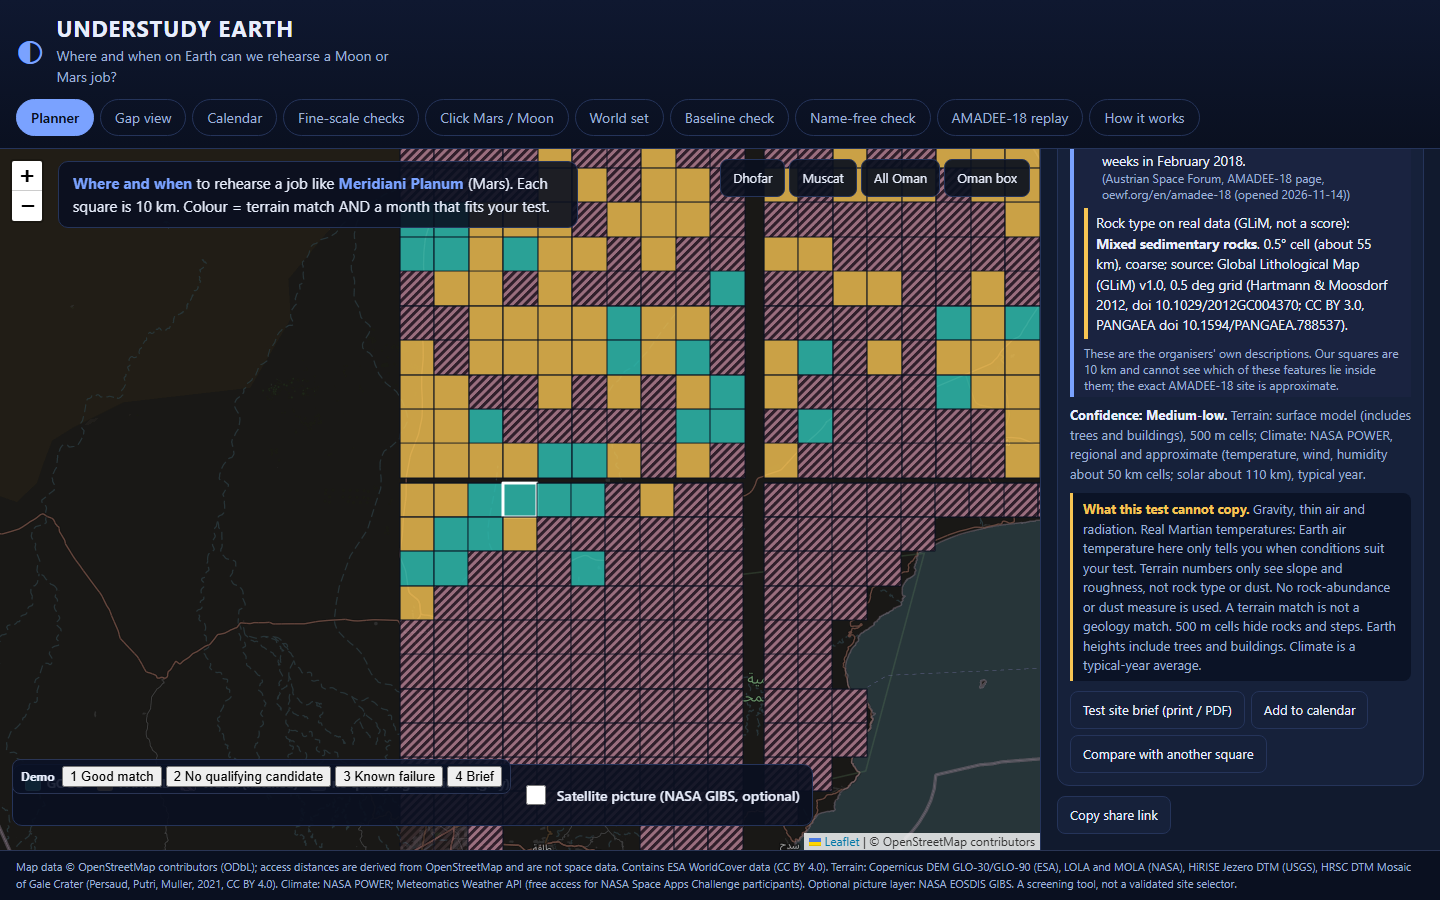
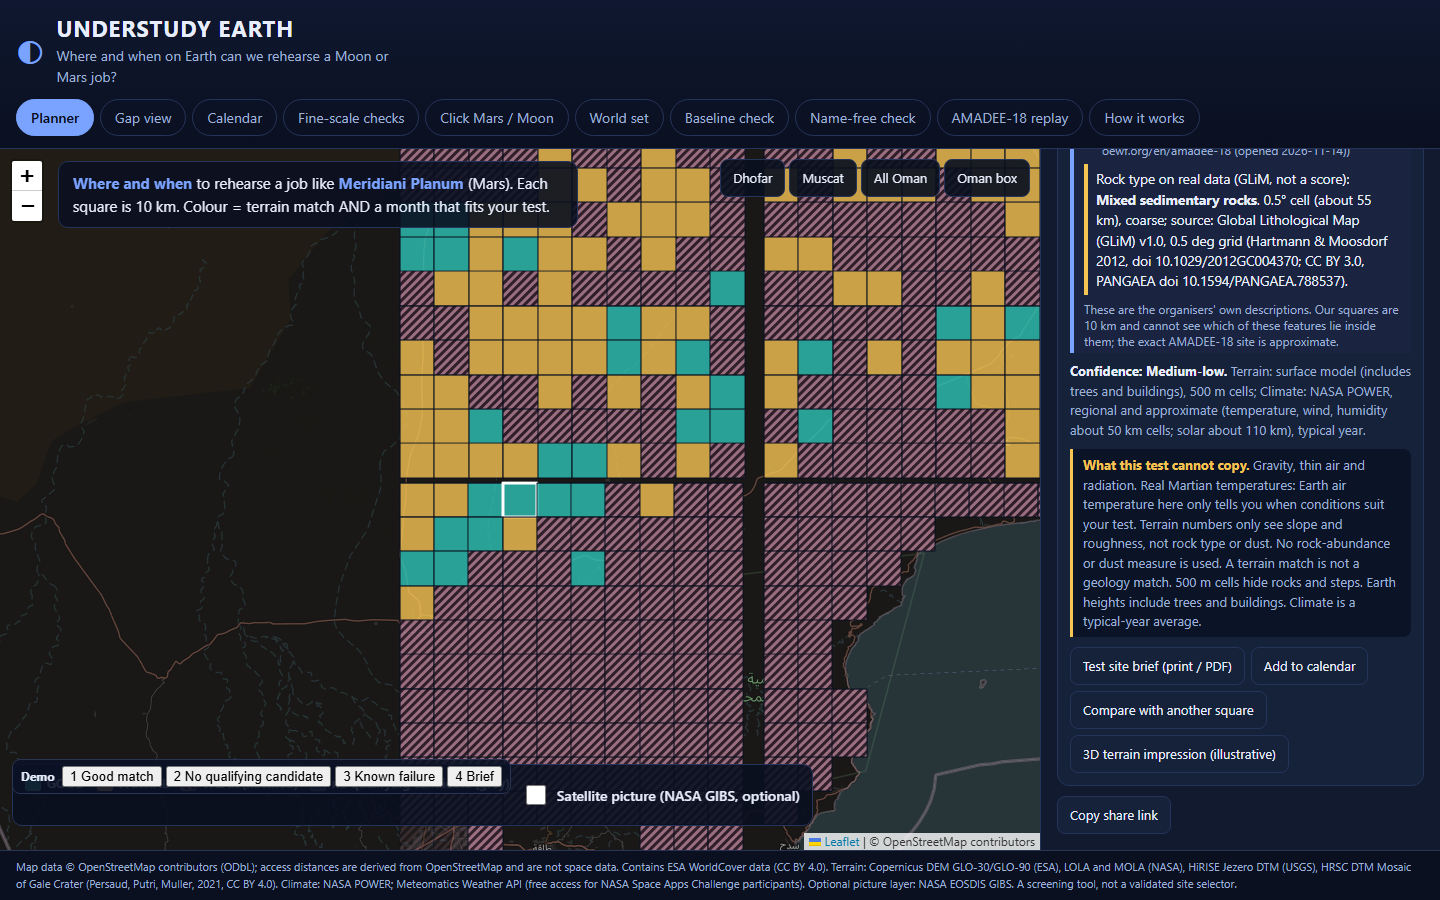
Add an illustrative 3D terrain impression to Earth, Mars and Moon results
Draws a
  synthetic rotatable surface sized to match each window's own real, measured relief, roughness and slope
  numbers, so the shape is a picture of those numbers rather than an extra data source. Clearly labelled as
  not real elevation data and never scored. Full test suite passes with zero console errors.

Changed region(s): [[0.7188, 0.1556, 0.9688, 0.7467], [0.75, 0.7778, 0.9375, 0.8711]]

diff --git a/app/app.js b/app/app.js
@@ -138,6 +138,7 @@
       var a = ev.target.getAttribute && ev.target.getAttribute('data-act');
       if (a === 'brief') openBrief(); else if (a === 'cmp') { cmpNext = true; $('result').insertAdjacentHTML('afterbegin', '<p class="hint">Now click a second square to compare.</p>'); }
       else if (a === 'addcal') { addCal(); } else if (a === 'clearcal') { st.cal = []; renderCal(); } else if (a === 'closebrief') $('brief').hidden = true; else if (a === 'print') window.print(); else if (a === 'clearb') { selB = null; renderResult(); }
+      else if (a === 't3d') openT3D(t3d.e, t3d.label); else if (a === 'rot3d') { t3d.angle += (+ev.target.getAttribute('data-dir')) * 0.35; draw3D(); } else if (a === 'closet3d') $('t3d').hidden = true;
     });
   }
 
@@ -334,6 +335,47 @@
       ['Best months for your test', e._best.length ? N.monthsText(e._best) : 'none fits']];
   }
 
+  // ---- 3D terrain impression: NOT real elevation data. A synthetic surface generated to match
+  // this window's own real, measured numbers (relief, roughness, slope), deterministic per window,
+  // so the same square always draws the same shape. Illustrative only, never scored.
+  var t3d = { e: null, label: '', angle: 0.78 };
+  function hash32(s) { var h = 0; for (var i = 0; i < s.length; i++) h = (h * 31 + s.charCodeAt(i)) | 0; return h; }
+  function mulberry32(a) { return function () { a |= 0; a = a + 0x6D2B79F5 | 0; var x = Math.imul(a ^ a >>> 15, 1 | a); x = x + Math.imul(x ^ x >>> 7, 61 | x) ^ x; return ((x ^ x >>> 14) >>> 0) / 4294967296; }; }
+  function heightfield(e) {
+    var N = 17, rnd = mulberry32(hash32(e.id || e.name || 'w')), h = new Array(N * N), oct = [[2, 1], [4, 0.5], [8, 0.25]];
+    var ph = oct.map(function () { return rnd() * 6.28; });
+    for (var y = 0; y < N; y++) for (var x = 0; x < N; x++) {
+      var v = 0; oct.forEach(function (o, k) { v += o[1] * Math.sin(x / (N - 1) * o[0] * 2.1 + ph[k]) * Math.cos(y / (N - 1) * o[0] * 1.7 + ph[k] * 1.3); });
+      h[y * N + x] = v;
+    }
+    var mn = Math.min.apply(null, h), mx = Math.max.apply(null, h), relief = e.relief_m || 50, rough = e.rough_med || 5;
+    for (var i = 0; i < h.length; i++) h[i] = (h[i] - mn) / ((mx - mn) || 1) * relief + (rnd() - 0.5) * rough * 1.5;
+    return { N: N, h: h };
+  }
+  function draw3D() {
+    var e = t3d.e; if (!e) return;
+    var hf = heightfield(e), N = hf.N, h = hf.h, cv = $('t3dcv'), c = cv.getContext('2d'), W = cv.width, H = cv.height;
+    c.clearRect(0, 0, W, H); c.fillStyle = '#05080f'; c.fillRect(0, 0, W, H);
+    var scale = Math.min(W, H) / (N * 1.5), cx = W / 2, cy = H * 0.26, maxh = Math.max.apply(null, h) || 1, a = t3d.angle;
+    var ca = Math.cos(a), sa = Math.sin(a);
+    function proj(x, y, z) {
+      var rx = x * ca - y * sa, ry = x * sa + y * ca;
+      return [cx + rx * scale * 0.86, cy + ry * scale * 0.5 - z / maxh * scale * 2.0];
+    }
+    var cells = []; for (var y = 0; y < N - 1; y++) for (var x = 0; x < N - 1; x++) cells.push([x, y]);
+    cells.sort(function (p, q) { return (p[0] + p[1]) - (q[0] + q[1]); });
+    cells.forEach(function (xy) {
+      var x = xy[0], y = xy[1], z00 = h[y * N + x], z10 = h[y * N + x + 1], z01 = h[(y + 1) * N + x], z11 = h[(y + 1) * N + x + 1];
+      var p00 = proj(x, y, z00), p10 = proj(x + 1, y, z10), p11 = proj(x + 1, y + 1, z11), p01 = proj(x, y + 1, z01);
+      var light = 0.4 + 0.6 * ((z00 + z10 + z01 + z11) / 4 / maxh + 0.5), g = Math.max(30, Math.min(230, Math.round(90 * light)));
+      c.fillStyle = 'rgb(' + g + ',' + Math.round(g * 0.92) + ',' + Math.round(g * 0.82) + ')';
+      c.beginPath(); c.moveTo(p00[0], p00[1]); c.lineTo(p10[0], p10[1]); c.lineTo(p11[0], p11[1]); c.lineTo(p01[0], p01[1]); c.closePath();
+      c.fill(); c.strokeStyle = 'rgba(0,0,0,0.25)'; c.stroke();
+    });
+    $('t3dcap').innerHTML = esc(t3d.label) + ' &middot; Not real elevation data: a synthetic surface generated to match this window\'s own measured relief (' + Math.round(e.relief_m) + ' m), roughness (' + e.rough_med.toFixed(1) + ' m) and slope, so you can picture the numbers in the table. The real terrain is not shaped like this; only the statistics match. Illustrative only, never scored.';
+  }
+  function openT3D(e, label) { t3d.e = e; t3d.label = label; t3d.angle = 0.78; $('t3d').hidden = false; draw3D(); }
+
   function chart(e) {
     var cv = $('slopechart'); if (!cv) return;
     var ctx = cv.getContext('2d'), W = cv.width, H = cv.height, t = st.target, nb = 16;
@@ -376,6 +418,7 @@
     var el = $('result');
     if (!sel) { el.innerHTML = '<p class="hint">Click a square on the map to see where it fits, when it fits, and what Earth cannot copy.</p>'; return; }
     var e = sel, k = e._tier, c = climate(e), cf = confidence(e);
+    t3d.e = e; t3d.label = 'Earth square ' + e.lat.toFixed(2) + ', ' + e.lon.toFixed(2);
     var rows = metricRows(e).map(function (r) { return '<tr><th>' + esc(r[0]) + '</th><td>' + esc(r[1]) + '</td></tr>'; }).join('');
     var h = '<div><span class="chip ' + k + '">' + LABEL[k] + '</span> <span class="chip ' + (stabOf(st.target) && stabOf(st.target).threshold_sensitive ? 'partial' : 'match') + '">' + robustText(st.target) + '</span> <span class="sub">' + esc(GROUPS[e.group]) + ' &middot; ' + e.lat.toFixed(3) + ', ' + e.lon.toFixed(3) + '</span></div>' +
       verdictHtml(e) + '<div class="best">Best months: <b>' + (e._best.length ? esc(N.monthsText(e._best)) : 'none fits your test') + '</b></div>' + stripHtml(e) + monthNotes(e) +
@@ -383,7 +426,7 @@
       '<table>' + rows + '</table><div class="chartbox"><canvas id="slopechart" width="340" height="90"></canvas><small><i class="dot b"></i>target slope spread <i class="dot g"></i>this square</small></div>' +
       twinHtml(e) + '<p class="sub"><b>Access:</b> ' + esc(accessLine(e)) + '</p>' + notesHtml(e) + (e.group === 'oman90' ? '<p class="note">90 m data: coarser than the 30 m squares, shown as an extra layer; land cover was not checked here.</p>' : '') + '<div class="conf"><b>Confidence: ' + cf.level + '.</b> ' + cf.items.map(esc).join('; ') + '.</div>' +
       '<div class="limits"><b>What this test cannot copy.</b> Gravity, thin air and radiation. Real ' + (st.target.body === 'Moon' ? 'lunar' : 'Martian') + ' temperatures: Earth air temperature here only tells you when conditions suit your test. Terrain numbers only see slope and roughness, not rock type or dust. No rock-abundance or dust measure is used. A terrain match is not a geology match. 500 m cells hide rocks and steps. Earth heights include trees and buildings. Climate is a typical-year average.</div>' +
-      '<div class="btns"><button data-act="brief">Test site brief (print / PDF)</button><button data-act="addcal">Add to calendar</button><button data-act="cmp">Compare with another square</button></div>';
+      '<div class="btns"><button data-act="brief">Test site brief (print / PDF)</button><button data-act="addcal">Add to calendar</button><button data-act="cmp">Compare with another square</button><button data-act="t3d">3D terrain impression (illustrative)</button></div>';
     if (selB) {
       var A = metricRows(sel), B = metricRows(selB);
       h += '<h3>Compare</h3><table><tr><th></th><th>A ' + sel.lat.toFixed(2) + ', ' + sel.lon.toFixed(2) + '</th><th>B ' + selB.lat.toFixed(2) + ', ' + selB.lon.toFixed(2) + '</th></tr>' + A.map(function (r, i) { return '<tr><th>' + esc(r[0]) + '</th><td>' + esc(r[1]) + '</td><td>' + esc(B[i][1]) + '</td></tr>'; }).join('') + '</table><button data-act="clearb">Clear B</button>';
@@ -484,6 +527,7 @@
     return { unknown: false, clat: clat, clon: clon, km: Math.sqrt(dx * dx + dy * dy), w: { id: 'MC', name: 'Mars window ' + clat.toFixed(1) + '°, ' + clon.toFixed(1) + '°', body: 'Mars', slope_p50: f[0], slope_p90: f[1], steep_share: f[2], rough_med: f[3], rough1k_med: f[4], relief_m: f[5], hist: histFrom(sh) } };
   }
   function skyResult(w, label, conf, extra) {
+    t3d.e = w; t3d.label = label;
     var rows = [['Median / 90th pct slope', w.slope_p50.toFixed(1) + '° / ' + w.slope_p90.toFixed(1) + '°'], ['Roughness 500 m / 1 km', w.rough_med.toFixed(1) + ' m / ' + w.rough1k_med.toFixed(1) + ' m'], ['Relief in 10 km', Math.round(w.relief_m) + ' m'], ['Cells above 10° slope', Math.round(w.steep_share * 100) + '%']];
     var ds = D.earth.map(function (e) { return { e: e, d: SC.distance(e, w) }; }).sort(function (a, b) { return a.d - b.d; });
     var om = ds.filter(function (x) { return x.e.group.indexOf('oman') === 0 && !masked(x.e); }), tier = SC.gapTier(om[0].d);
@@ -494,7 +538,8 @@
     $('skyres').innerHTML = '<h3>' + esc(label) + '</h3>' + steepWarn + (extra || '') + '<table>' + rows.map(function (r) { return '<tr><th>' + esc(r[0]) + '</th><td>' + esc(r[1]) + '</td></tr>'; }).join('') + '</table>' +
       '<p><span class="chip ' + tier + '">' + GLABEL[tier] + '</span> best square in the searched area: distance ' + om[0].d.toFixed(3) + ' (match below ' + D.meta.thr_match_dist.toFixed(2) + ', partial below ' + D.meta.thr_partial_dist.toFixed(2) + '). Best fit among the squares searched, not a global best. Not checked for stability.</p>' +
       '<h4>Closest squares in the searched area</h4>' + tb(om.slice(0, 5)) + '<h4>Closest squares anywhere in our set</h4>' + tb(ds.slice(0, 3)) + vh +
-      '<div class="conf"><b>Confidence: Low.</b> ' + esc(conf) + '</div><div class="limits"><b>What this cannot see.</b> Terrain numbers only see slope and roughness, not rock type or dust. Gravity, air and radiation are not copied. 500 m cells hide rocks and steps; Earth heights are a surface model. A terrain match is not a geology match.</div>';
+      '<div class="conf"><b>Confidence: Low.</b> ' + esc(conf) + '</div><div class="limits"><b>What this cannot see.</b> Terrain numbers only see slope and roughness, not rock type or dust. Gravity, air and radiation are not copied. 500 m cells hide rocks and steps; Earth heights are a surface model. A terrain match is not a geology match.</div>' +
+      '<div class="btns"><button data-act="t3d">3D terrain impression (illustrative)</button></div>';
   }
   function renderSky() {
     var pole = POLE[skyBody];

diff --git a/app/index.html b/app/index.html
@@ -116,6 +116,7 @@
 </main>
 <footer class="foot">Map data &copy; OpenStreetMap contributors (ODbL); access distances are derived from OpenStreetMap and are not space data. Contains ESA WorldCover data (CC BY 4.0). Terrain: Copernicus DEM GLO-30/GLO-90 (ESA), LOLA and MOLA (NASA), HiRISE Jezero DTM (USGS), HRSC DTM Mosaic of Gale Crater (Persaud, Putri, Muller, 2021, CC BY 4.0). Climate: NASA POWER; Meteomatics Weather API (free access for NASA Space Apps Challenge participants). Optional picture layer: NASA EOSDIS GIBS. A screening tool, not a validated site selector.</footer>
 <div id="brief" class="brief" hidden></div>
+<div id="t3d" class="brief" hidden><div class="bar-top"><button data-act="rot3d" data-dir="-1">&#8634; Rotate</button><button data-act="rot3d" data-dir="1">Rotate &#8635;</button><button data-act="closet3d">Close</button></div><h2>3D terrain impression (illustrative)</h2><canvas id="t3dcv" width="480" height="360" aria-label="Illustrative 3D terrain impression"></canvas><p class="sub" id="t3dcap"></p></div>
 <script src="https://unpkg.com/leaflet@1.9.4/dist/leaflet.js"></script>
 <script src="score.js"></script>
 <script src="needs.js"></script>
